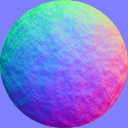
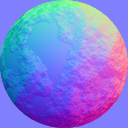
Added planet surface colors
Also lots of other stuff

diff --git a/demo.js b/demo.js
@@ -81,10 +81,11 @@ function loadTexture(drawer, url, wrap) {
     return texture;
 }
 
-var SUN_COLOR_DWARF = {x:12.0, y:13.0, z:14.0};
-var SUN_COLOR_MAIN = {x:9.0, y:7.0, z:4.0};
-var SUN_COLOR_GIANT = {x:8.0, y:3.0, z:1.0};
-var SUN_SIZE_MAIN = 0.25;
+var SUN_COLOR_DWARF = {x:1.2, y:1.3, z:1.4};
+var SUN_COLOR_MAIN = {x:1.0, y:0.78, z:0.44};
+var SUN_COLOR_GIANT = {x:1.0, y:0.2, z:0.1};
+var SUN_SIZE_MIN = 0.125, SUN_SIZE_MAIN = 0.25, SUN_SIZE_MAX = 0.65;
+var SUN_SMID = (SUN_SIZE_MAIN - SUN_SIZE_MIN)/(SUN_SIZE_MAX - SUN_SIZE_MIN);
 
 var sunScaleSlider;
 var cloudTexture;
@@ -192,21 +193,25 @@ function onResize() {
 }
 
 function sunLerp(a, b, c, t) {
-    if (t >= SUN_SIZE_MAIN) {
-        var rt = (t - SUN_SIZE_MAIN)/(1.0 - SUN_SIZE_MAIN);
+    if (t <= 0.0) return a;
+    else if (t >= 1.0) return c;
+    
+    if (t >= SUN_SMID) {
+        var rt = (t - SUN_SMID)/(1.0 - SUN_SMID);
         return b + (c - b)*rt;
     }
     else {
-        var rt = t/SUN_SIZE_MAIN;
+        var rt = t/SUN_SMID;
         return a + (b - a)*rt;
     }
 }
 
 function calcSunColor() {
     var sunSize = sunScaleSlider.noUiSlider.get();
-    curSunColor.x = sunLerp(SUN_COLOR_DWARF.x, SUN_COLOR_MAIN.x, SUN_COLOR_GIANT.x, sunSize);
-    curSunColor.y = sunLerp(SUN_COLOR_DWARF.y, SUN_COLOR_MAIN.y, SUN_COLOR_GIANT.y, sunSize);
-    curSunColor.z = sunLerp(SUN_COLOR_DWARF.z, SUN_COLOR_MAIN.z, SUN_COLOR_GIANT.z, sunSize);
+    var t = (sunSize - SUN_SIZE_MIN)/(SUN_SIZE_MAX - SUN_SIZE_MIN);
+    curSunColor.x = sunLerp(SUN_COLOR_DWARF.x, SUN_COLOR_MAIN.x, SUN_COLOR_GIANT.x, t);
+    curSunColor.y = sunLerp(SUN_COLOR_DWARF.y, SUN_COLOR_MAIN.y, SUN_COLOR_GIANT.y, t);
+    curSunColor.z = sunLerp(SUN_COLOR_DWARF.z, SUN_COLOR_MAIN.z, SUN_COLOR_GIANT.z, t);
 }
 
 var startTime = 0;
@@ -234,11 +239,11 @@ function initSunScaleSlider() {
     sunScaleSlider = $("#sun-scale-slider")[0];
     
     noUiSlider.create(sunScaleSlider, {
-		start: 0.25,
+		start: SUN_SIZE_MAIN,
 		orientation: "horizontal",
 		range: {
-			'min': 0.125,
-			'max': 0.75
+			'min': SUN_SIZE_MIN,
+			'max': SUN_SIZE_MAX
 		}
 	});
 }
@@ -262,8 +267,11 @@ function loadSun() {
 function loadPlanet() {
     planetDrawer = makeDrawer("#planet-canvas", "planet");
     var gl = planetDrawer.gl;
-    planetDrawer.texture = loadTexture(planetDrawer, "planet_normals.png", gl.REPEAT);
+    planetDrawer.albedoTexture = loadTexture(planetDrawer, "planet_albedo.png", gl.REPEAT);
+    planetDrawer.normalTexture = loadTexture(planetDrawer, "planet_normals.png", gl.REPEAT);
     planetDrawer.onDraw = function(time) {
+        gl.uniform1i(this.uLoc("tex_albedo"), 0);
+        gl.uniform1i(this.uLoc("tex_normals"), 1);
         gl.uniform3f(this.uLoc("sun_light_color"), curSunColor.x, curSunColor.y, curSunColor.z);
         gl.uniform1f(this.uLoc("sun_radius"), sunDrawer.relRadius(this));
         gl.uniform1f(this.uLoc("moon_radius"), moonDrawer.relRadius(this));
@@ -271,7 +279,11 @@ function loadPlanet() {
         gl.uniform2f(this.uLoc("sun_pos"), sunPos.x, sunPos.y);
         var moonPos = this.relPosition(moonDrawer);
         gl.uniform2f(this.uLoc("moon_pos"), moonPos.x, moonPos.y);
-        gl.bindTexture(gl.TEXTURE_2D, this.texture);
+        
+        gl.activeTexture(gl.TEXTURE0);
+        gl.bindTexture(gl.TEXTURE_2D, this.albedoTexture);
+        gl.activeTexture(gl.TEXTURE1);
+        gl.bindTexture(gl.TEXTURE_2D, this.normalTexture);
     }
     planetDrawer.loading--;
 }
